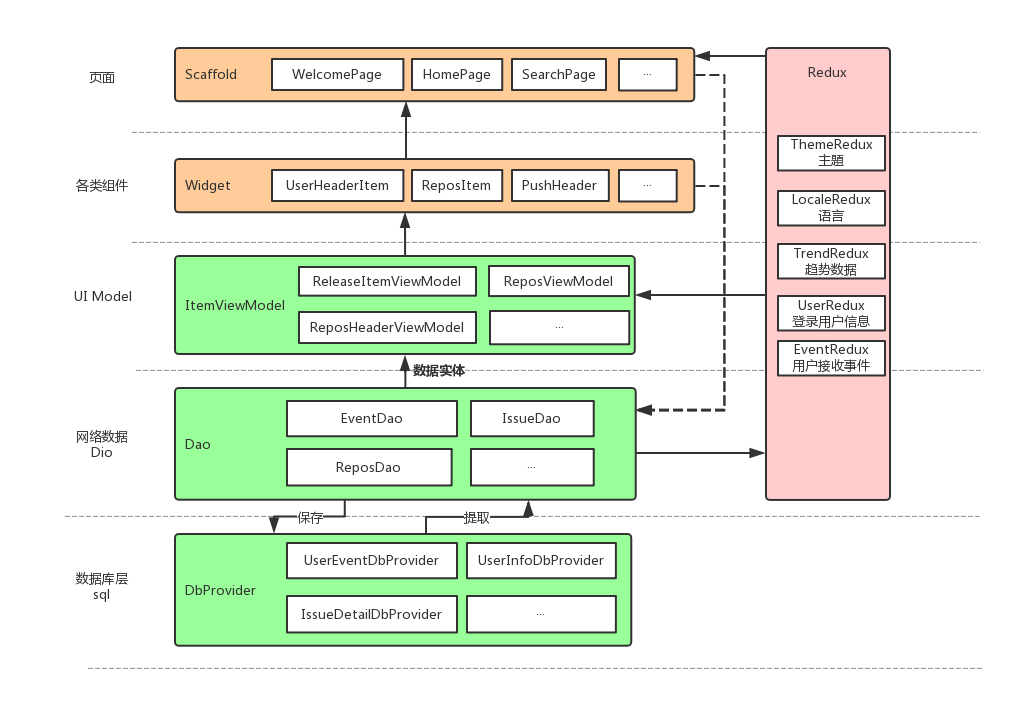
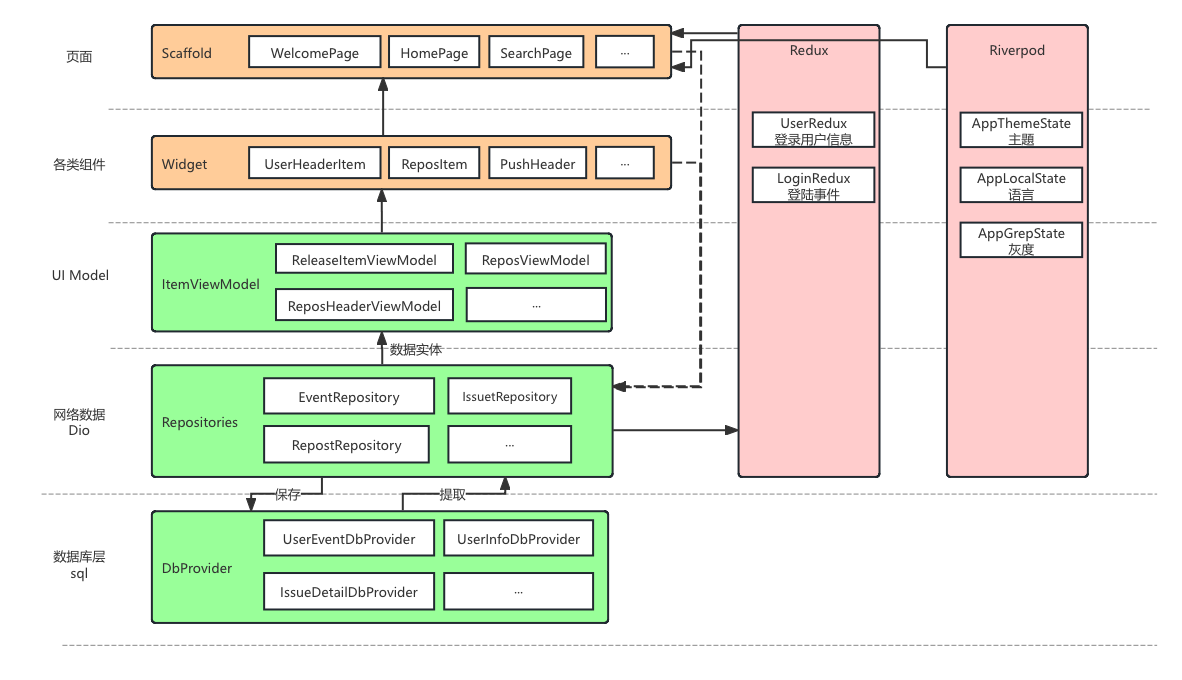
readme

diff --git a/README.md b/README.md
@@ -58,17 +58,21 @@
 
 ## 须知
 
-> **因为是偏学习项目，所以项目里会有各式各样的模式、库、UI等，请不要介意**
+> **因为是偏学习展示项目，所以项目里会有各式各样的模式、库、UI等，请不要介意**
 > 
-> 1、 TrendPage ： 目前采用纯 bloc 的 rxdart(stream) + streamBuilder 模式效果
+> 0、 全局状态管理目前有多种模式，包括 Provider、Redux、Riverpod 等
+> 
+> 1、 TrendPage ： 目前采用纯  riverpod  状态管理，演示
 >
 > 2、 Scoped Model：目前在 RepositoryDetailPage 出使用
 >
-> 3、 Redux：目前在 MyPage ，UserInfo、Theme、Localization 等上面使用。
->
-> 4、 LoginPage：另类的 BLoC 模式。
+> 3、 Redux：目前展示了全局登陆和用户信息等上面使用。
 > 
-> 5、 ReposDao.getRepositoryDetailDao 使用 graphQL
+> 4、 ReposDetailPage：目前使用了 Provider 状态管理展示组合使用。
+>
+> 5、 LoginPage：另类的 BLoC 模式。
+> 
+> 6、 Repos 等请求展示了 graphQL
 > 
 > **列表显示有多个，其中：**
 > 
@@ -129,7 +133,6 @@
 
 ![](./framework2.png)
 
-![](./folder.png)
 
 
 
@@ -152,38 +155,220 @@
 <img src="http://img.cdn.guoshuyu.cn/showapp3.jpg" width="426px"/>
 
 
-### 第三方框架
+### 框架
 
 >当前 Flutter SDK 版本 3.29
 
-| 库                          | 功能             |
-| -------------------------- | -------------- |
-| **dio**                    | **网络框架**       |
-| **shared_preferences**     | **本地数据缓存**     |
-| **fluttertoast**           | **toast**      |
-| **flutter_redux**          | **redux**      |
-| **device_info**            | **设备信息**       |
-| **connectivity**           | **网络链接**       |
-| **flutter_markdown**       | **markdown解析** |
-| **json_annotation**        | **json模板**     |
-| **json_serializable**      | **json模板**     |
-| **url_launcher**           | **启动外部浏览器**    |
-| **iconfont**               | **字库图标**       |
-| **share**                  | **系统分享**       |
-| **flutter_spinkit**        | **加载框样式**      |
-| **get_version**            | **版本信息**       |
-| **flutter_webview_plugin** | **全屏的webview** |
-| **sqflite**                | **数据库**        |
-| **flutter_statusbar**      | **状态栏**        |
-| **flutter_svg**            | **svg**        |
-| **photo_view**             | **图片预览**       |
-| **flutter_slidable**       | **侧滑**         |
-| **flutter_cache_manager**  | **缓存管理**       |
-| **path_provider**          | **本地路径**       |
-| **permission_handler**     | **权限**         |
-| **scope_model**            | **状态管理和共享**    |
-| **lottie**                 | **svg动画**    |
-| **flare**                  | **路径动画**    |
+```
+用户交互 → UI层(Widget/Page) → 状态层(Redux/Provider/Riverpod) → 服务层(Repositories) 
+       → 网络层(Net) → GitHub API → 数据模型(Model) → 本地存储(DB) → UI更新
+```
+
+```
+┌─────────────────────────────────────────────────────────────────┐
+│                         GSY GitHub App                          │
+├─────────────┬───────────────┬────────────────┬─────────────────┤
+│   UI Layer  │  State Layer  │  Service Layer │     Data Layer  │
+├─────────────┼───────────────┼────────────────┼─────────────────┤
+│             │               │                │                 │
+│  ┌─────────┐│  ┌─────────┐  │  ┌─────────┐   │   ┌─────────┐   │
+│  │ Pages   ││  │ Redux   │  │  │Repositories│  │   │ Models │   │
+│  └─────────┘│  └─────────┘  │  └─────────┘   │   └─────────┘   │
+│             │               │                │                 │
+│  ┌─────────┐│  ┌─────────┐  │  ┌─────────┐   │   ┌─────────┐   │
+│  │ Widgets ││  │ Provider│  │  │Network API│  │   │Database │   │
+│  └─────────┘│  └─────────┘  │  └─────────┘   │   └─────────┘   │
+│             │               │                │                 │
+│  ┌─────────┐│  ┌─────────┐  │                │                 │
+│  │Common UI││  │Riverpod │  │                │                 │
+│  └─────────┘│  └─────────┘  │                │                 │
+│             │               │                │                 │
+└─────────────┴───────────────┴────────────────┴─────────────────┘
+```
+
+```
+lib/
+├── main.dart              # 应用入口点
+├── main_prod.dart         # 生产环境入口点
+├── app.dart               # 应用配置与路由
+├── common/                # 公共功能模块
+│   ├── config/            # 应用配置
+│   ├── event/             # 事件总线
+│   ├── local/             # 本地化
+│   ├── localization/      # 多语言支持
+│   ├── net/               # 网络请求
+│   ├── repositories/      # 数据仓库
+│   ├── router/            # 路由配置
+│   ├── style/             # 样式配置
+│   └── utils/             # 工具类
+├── db/                    # 数据库相关
+│   ├── provider/          # 数据库提供者
+│   ├── sql_manager.dart   # SQL管理器
+│   └── sql_provider.dart  # SQL提供者
+├── env/                   # 环境配置
+├── model/                 # 数据模型
+├── page/                  # 页面
+│   ├── debug/             # 调试页面
+│   ├── dynamic/           # 动态页面
+│   ├── home/              # 主页
+│   ├── issue/             # Issue相关页面
+│   ├── login/             # 登录页面
+│   ├── push/              # 推送相关页面
+│   ├── release/           # 发布相关页面
+│   ├── repos/             # 仓库相关页面
+│   ├── search/            # 搜索页面
+│   ├── trend/             # 趋势页面
+│   └── user/              # 用户相关页面
+├── provider/              # Provider状态管理
+├── redux/                 # Redux状态管理
+│   ├── middleware/        # Redux中间件
+│   ├── gsy_state.dart     # Redux状态定义
+│   ├── login_redux.dart   # 登录状态管理
+│   └── user_redux.dart    # 用户状态管理
+├── test/                  # 测试相关
+└── widget/                # 自定义组件
+    ├── anima/             # 动画组件
+    ├── markdown/          # Markdown渲染组件
+    ├── menu/              # 菜单组件
+    ├── particle/          # 粒子效果组件
+    ├── pull/              # 下拉刷新组件
+    └── state/             # 状态相关组件
+```
+
+riverpod 页面内状态管理：
+
+```
+┌───────────────────────────────────────────────────────────────────────────┐
+│                           TrendPage Architecture                           │
+└───────────────────────────────────────────────────────────────────────────┘
+                                      │
+                                      ▼
+┌───────────────────────────────────────────────────────────────────────────┐
+│                              Global State                                  │
+│  ┌───────────────────┐   ┌────────────────────┐   ┌────────────────────┐  │
+│  │ appThemeProvider  │   │ appLocalProvider   │   │ appGrepProvider    │  │
+│  │ (Theme Data)      │   │ (Localization)     │   │ (Grayscale Mode)   │  │
+│  └───────────────────┘   └────────────────────┘   └────────────────────┘  │
+└───────────────────────────────────────────────────────────────────────────┘
+                                      │
+                                      ▼
+┌───────────────────────────────────────────────────────────────────────────┐
+│                         TrendPage Specific State                           │
+├───────────────────────────────────────────────────────────────────────────┤
+│                                                                           │
+│  ┌─────────────────────────────────────────────────────────────────────┐  │
+│  │                      Riverpod Providers                             │  │
+│  │  ┌───────────────────────────────┐  ┌─────────────────────────────┐ │  │
+│  │  │        trendFirstProvider     │  │     trendSecondProvider     │ │  │
+│  │  │ (Primary Data Source)         │  │ (Secondary Data Source)     │ │  │
+│  │  │ - Takes time & language params│  │ - Depends on firstProvider  │ │  │
+│  │  │ - Fetches trending repos      │  │ - Processes additional data │ │  │
+│  │  └───────────────────────────────┘  └─────────────────────────────┘ │  │
+│  └─────────────────────────────────────────────────────────────────────┘  │
+│                                    │                                      │
+│                                    ▼                                      │
+│  ┌─────────────────────────────────────────────────────────────────────┐  │
+│  │                   Local State (StatefulWidget)                      │  │
+│  │  ┌───────────────────────────┐  ┌───────────────────────────────┐  │  │
+│  │  │ User Interface Controls   │  │ Filter Parameters             │  │  │
+│  │  │ - scrollController        │  │ - selectTime (daily/weekly)   │  │  │
+│  │  │ - _isOpen                 │  │ - selectType (language)       │  │  │
+│  │  │ - refreshIndicatorKey     │  │ - selectTimeIndex            │  │  │
+│  │  └───────────────────────────┘  │ - selectTypeIndex            │  │  │
+│  │                                 └───────────────────────────────┘  │  │
+│  └─────────────────────────────────────────────────────────────────────┘  │
+│                                    │                                      │
+│                                    ▼                                      │
+│  ┌─────────────────────────────────────────────────────────────────────┐  │
+│  │                     Global State Flags                             │  │
+│  │  ┌───────────────────────────────┐  ┌─────────────────────────────┐ │  │
+│  │  │ trendLoadingState (boolean)   │  │ trendRequestedState (bool)  │ │  │
+│  │  │ - Tracks loading status       │  │ - Tracks if data requested  │ │  │
+│  │  └───────────────────────────────┘  └─────────────────────────────┘ │  │
+│  └─────────────────────────────────────────────────────────────────────┘  │
+│                                                                           │
+└───────────────────────────────────────────────────────────────────────────┘
+                                      │
+                                      ▼
+┌───────────────────────────────────────────────────────────────────────────┐
+│                            Data Layer                                      │
+│  ┌───────────────────────────────────────────────────────────────────────┐ │
+│  │                       ReposRepository                                 │ │
+│  │  ┌────────────────────────┐       ┌─────────────────────────────────┐ │ │
+│  │  │ Network Request        │───┬──▶│ TrendRepositoryDbProvider       │ │ │
+│  │  │ - API calls            │   │   │ - Database caching              │ │ │
+│  │  └────────────────────────┘   │   │ - Offline data retrieval        │ │ │
+│  │                               │   └─────────────────────────────────┘ │ │
+│  │                               │                                       │ │
+│  │                               │   ┌─────────────────────────────────┐ │ │
+│  │                               └──▶│ TrendingRepoModel               │ │ │
+│  │                                   │ - Data model for trending repos │ │ │
+│  │                                   └─────────────────────────────────┘ │ │
+│  └───────────────────────────────────────────────────────────────────────┘ │
+└───────────────────────────────────────────────────────────────────────────┘
+                                      │
+                                      ▼
+┌───────────────────────────────────────────────────────────────────────────┐
+│                              UI Components                                 │
+│  ┌────────────────────────────┐ ┌─────────────────────────┐ ┌───────────┐ │
+│  │ TrendTypeModel             │ │ ReposViewModel          │ │ ReposItem │  │
+│  │ - Filter options           │ │ - UI data wrapper       │ │ - UI      │ │
+│  └────────────────────────────┘ └─────────────────────────┘ └───────────┘ │
+└───────────────────────────────────────────────────────────────────────────┘
+
+```
+
+provider 页面内状态管理：
+
+```
++-----------------------------------------------------+
+|                   App User Interface                 |
++-----------------------------------------------------+
+                          |
+                          v
++-----------------------------------------------------+
+|              RepositoryDetailPage (StatefulWidget)  |
+|            with SingleTickerProviderStateMixin      |
++-----------------------------------------------------+
+                          |
+                          v
++-----------------------------------------------------+
+|                   MultiProvider                      |
++-----------------------------------------------------+
+        |                                 |
+        v                                 v
++------------------+           +-----------------------+
+| ReposNetWork     |<----------|  ReposDetailProvider  |
+| Provider         |           |                       |
++---------+--------+           +-----------------------+
+          |                                |
+          |                                |
+          v                                v
++-----------------------------------------------------+
+|              Repository Data Services               |
+| (ReposRepository, IssueRepository)                  |
++-----------------------------------------------------+
+          |
+          v
++-----------------------------------------------------+
+|                Four Tab Pages (Consumers)           |
++-----------------------------------------------------+
+    |           |           |           |
+    v           v           v           v
++----------+ +----------+ +----------+ +----------+
+| Info     | | Readme   | | Issues   | | Files    |
+| Page     | | Page     | | Page     | | Page     |
++----------+ +----------+ +----------+ +----------+
+    |           |           |           |
+    |           |           |           |
+    v           v           v           v
++-----------------------------------------------------+
+|                GlobalKeys for Tab Access             |
+| (infoListKey, readmeKey, issueListKey, fileListKey) |
++-----------------------------------------------------+
+
+```
+
 
 ## Star History Chart
 
